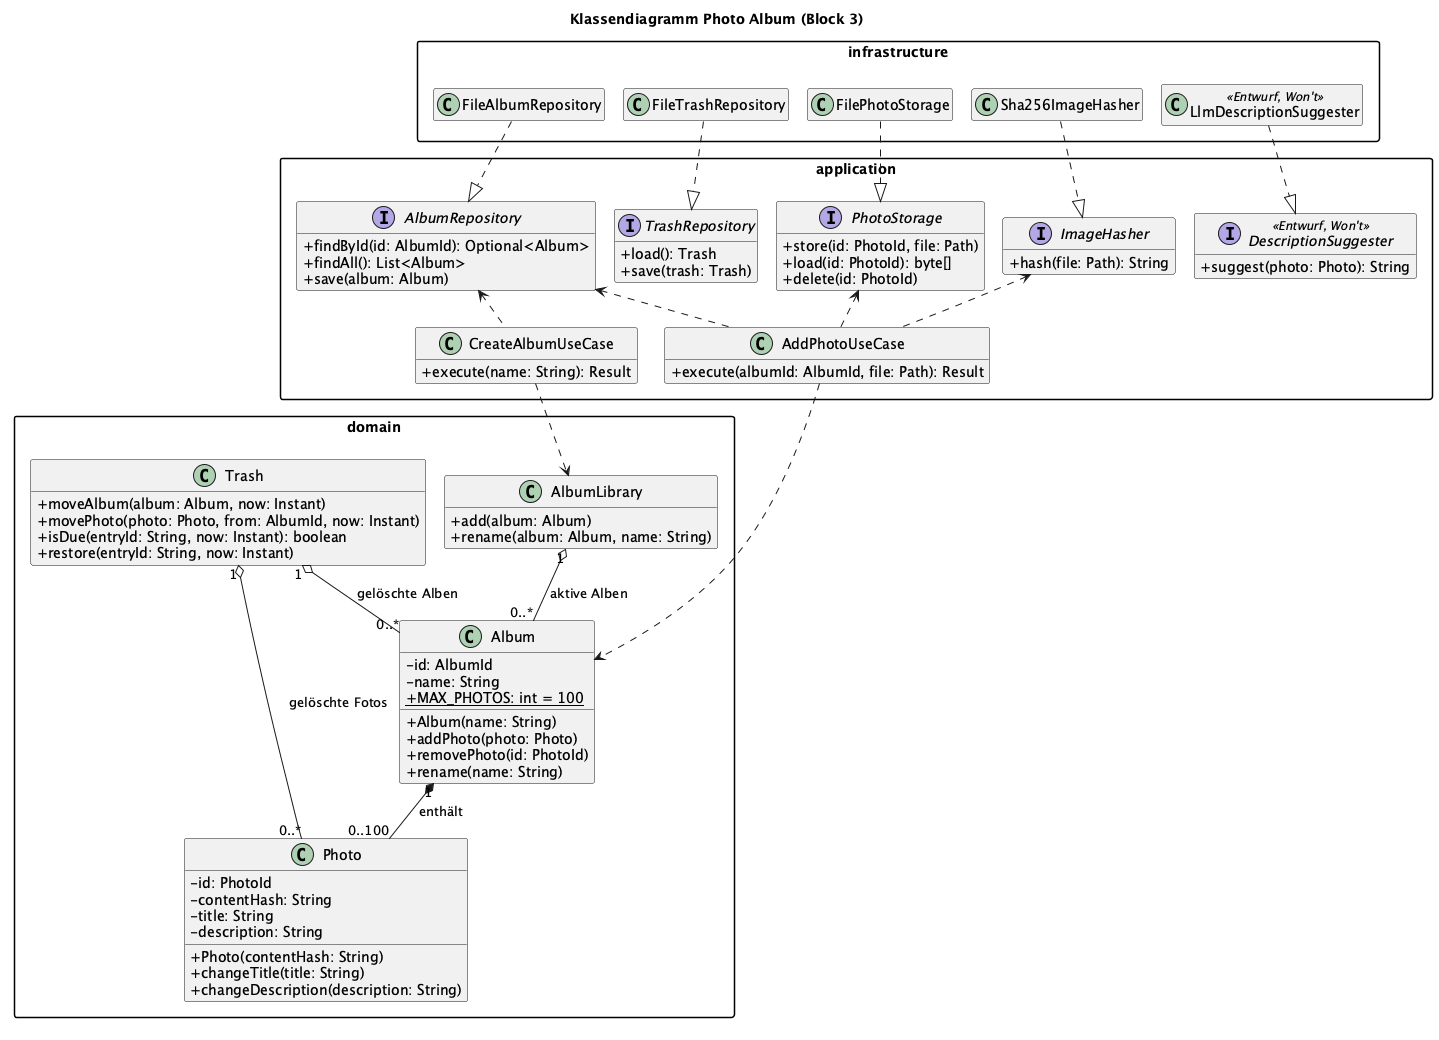
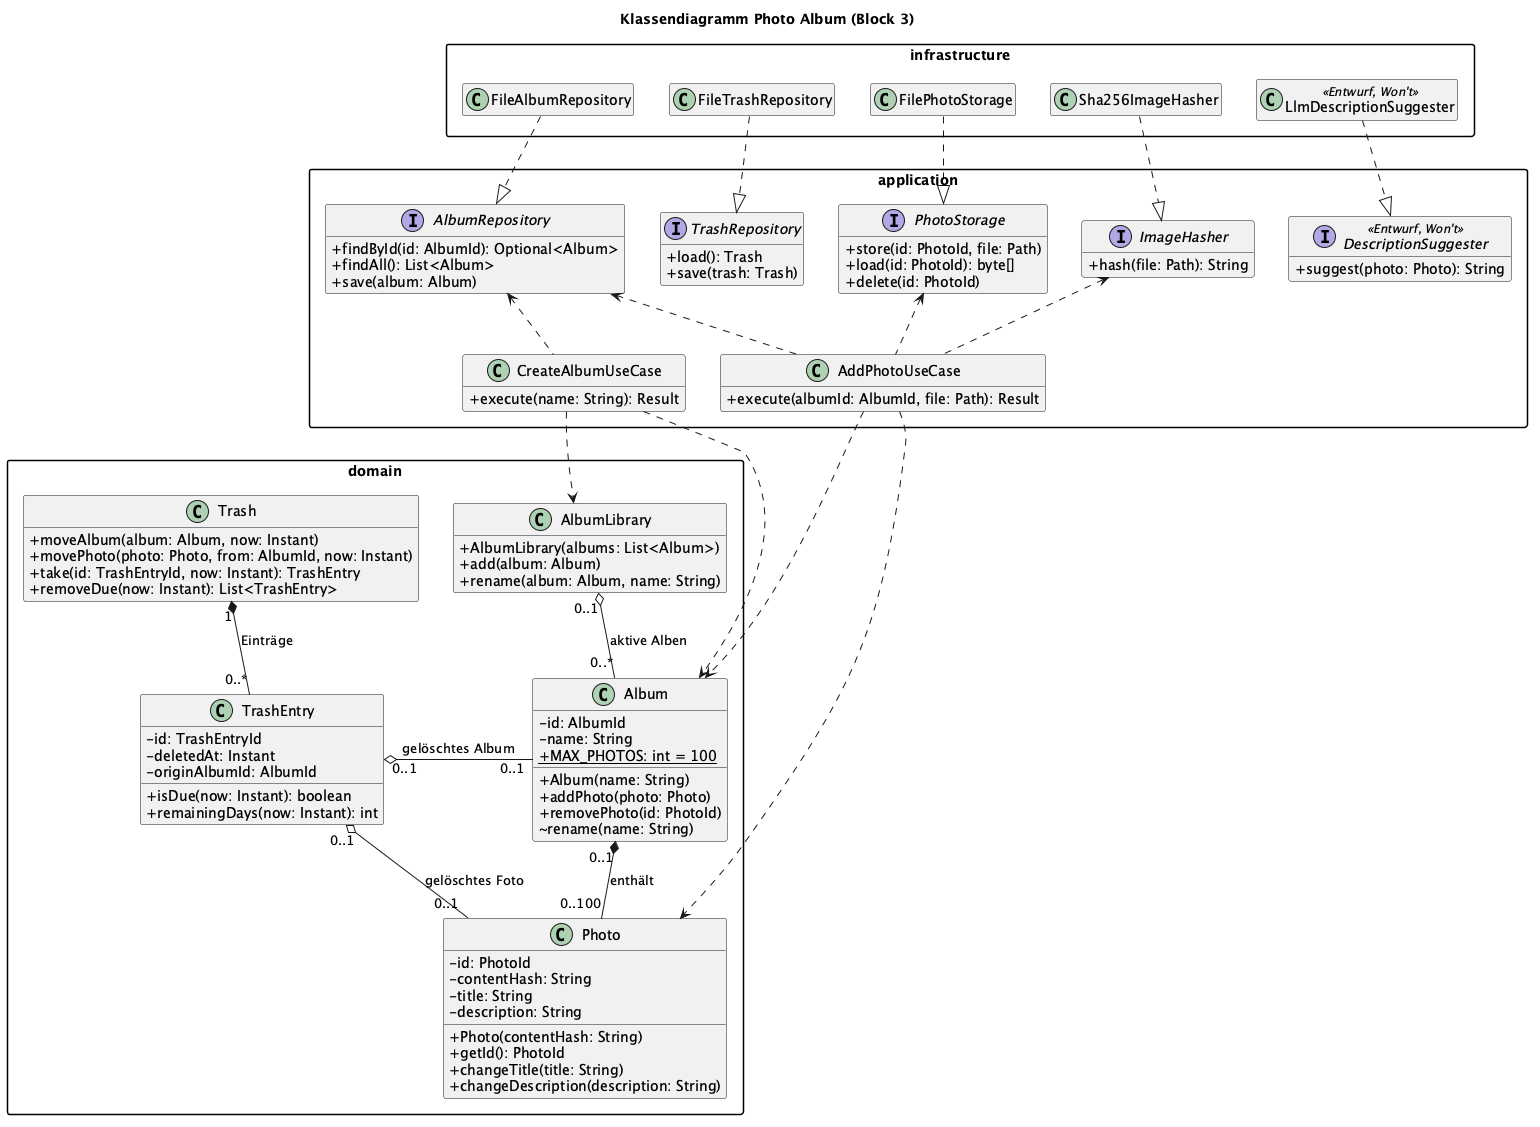
docs(block-3): KI-Review einarbeiten und Sequenzdiagramm ergänzen (#25)

Changed region(s): [[0.0, 0.0, 1.0, 1.0]]

diff --git a/docs/design/crc-karten.md b/docs/design/crc-karten.md
@@ -12,29 +12,37 @@ CRC steht für Class, Responsibilities, Collaborators. Die Karten leiten sich au
 | Seine Fotos kennen und zählen | |
 | Foto hinzufügen, wenn noch kein Foto mit demselben Hash enthalten ist (A-01) und höchstens 100 Fotos erreicht werden | |
 | Foto entfernen | |
-| Umbenennen | |
+| Umbenennen; nur über `AlbumLibrary` aufrufbar | |
 
 ### `Photo`
 
 | Verantwortlichkeiten | Partner |
 |---|---|
-| Eigene ID und Inhaltshash kennen; die App-Kopie ist unter der ID abgelegt | – |
+| Eigene ID und Inhaltshash kennen und die ID herausgeben; die App-Kopie ist unter der ID abgelegt | – |
 | Titel (höchstens 100 Zeichen) und Beschreibung (höchstens 500 Zeichen) prüfen, ändern und leeren (A-04) | |
 
 ### `AlbumLibrary`
 
 | Verantwortlichkeiten | Partner |
 |---|---|
-| Die aktiven Alben kennen | `Album` |
-| Sicherstellen, dass Albumnamen unabhängig von Groß- und Kleinschreibung eindeutig sind (A-02) | |
+| Die aktiven Alben kennen; wird aus den geladenen Alben aufgebaut | `Album` |
+| Beim Anlegen, Umbenennen und Wiederherstellen sicherstellen, dass Albumnamen unabhängig von Groß- und Kleinschreibung eindeutig sind (A-02) | |
 
 ### `Trash`
 
 | Verantwortlichkeiten | Partner |
 |---|---|
-| Gelöschte Alben und Fotos mit Löschzeitpunkt kennen (A-07) | `Album`, `Photo` |
-| Einen Eintrag ab 30 × 24 Stunden nach dem Löschzeitpunkt als fällig erkennen (A-10) | |
-| Nicht fällige Einträge wiederherstellen; fällige ablehnen (A-09, A-10) | |
+| Gelöschte Alben und Fotos als Einträge aufnehmen (A-07) | `TrashEntry` |
+| Einen nicht fälligen Eintrag zum Wiederherstellen herausgeben; fällige ablehnen (A-09, A-10) | |
+| Fällige Einträge entfernen (A-10) | |
+
+### `TrashEntry`
+
+| Verantwortlichkeiten | Partner |
+|---|---|
+| Löschzeitpunkt und Ursprungsalbum kennen (A-07) | `Album`, `Photo` |
+| Das gelöschte Album oder Foto halten | |
+| Ab 30 × 24 Stunden nach dem Löschzeitpunkt fällig sein und die verbleibenden Tage nennen (A-08, A-10) | |
 
 ## Anwendung
 
@@ -42,10 +50,11 @@ CRC steht für Class, Responsibilities, Collaborators. Die Karten leiten sich au
 
 | Verantwortlichkeiten | Partner |
 |---|---|
-| Album über `AlbumRepository` laden | `AlbumRepository` |
-| Datei von `ImageHasher` prüfen und hashen lassen | `ImageHasher` |
-| `Album` das Foto hinzufügen lassen und das Album speichern | `PhotoStorage` |
-| Nach der Aufnahme die App-Kopie anlegen und bei einem Fehler wieder entfernen (A-11) | `Album` |
+| Album laden und speichern | `AlbumRepository` |
+| Datei prüfen und hashen lassen | `ImageHasher` |
+| Neues `Photo` mit dem Hash erzeugen | `Photo` |
+| `Album` das Foto hinzufügen lassen | `Album` |
+| Nach der Aufnahme die App-Kopie anlegen und bei einem Fehler wieder entfernen (A-11) | `PhotoStorage` |
 | Fehler in eine verständliche Meldung für die UI übersetzen | |
 
 ### `CreateAlbumUseCase`
@@ -97,7 +106,8 @@ Jede Regel steht auf genau einer Karte.
 | Höchstens 100 Fotos je Album | `Album` |
 | Kein bytegleiches Foto zweimal im selben Album | `Album` |
 | Titel höchstens 100, Beschreibung höchstens 500 Zeichen | `Photo` |
-| Frist von 30 × 24 Stunden und Wiederherstellen nur vor Ablauf | `Trash` |
+| Frist von 30 × 24 Stunden | `TrashEntry` |
+| Wiederherstellen nur vor Ablauf der Frist | `Trash` |
 | Nur JPEG oder PNG bis 20 MiB (technische Eingangsprüfung) | `ImageHasher` |
 
 ## Durchspielen von „Foto hinzufügen“
@@ -111,6 +121,6 @@ Jede Regel steht auf genau einer Karte.
 
 Die Reihenfolge folgt UC-01: Erst laufen alle Prüfungen, dann wird gespeichert.
 
-Alle Karten außer `CreateAlbumUseCase`, `AlbumLibrary`, `Trash` und `TrashRepository` kommen dabei zu Wort. Diese vier gehören zu UC-02 und zum Papierkorb.
+Alle Karten außer `CreateAlbumUseCase`, `AlbumLibrary`, `Trash`, `TrashEntry` und `TrashRepository` kommen dabei zu Wort. Diese fünf gehören zu UC-02 und zum Papierkorb.
 
-`AddPhotoUseCase` hat vier Partner, einen mehr als die Faustregel der Folien. Die Karte koordiniert nur und trifft keine fachliche Entscheidung. Deshalb bleibt sie ungeteilt.
+`AddPhotoUseCase` hat fünf Partner, zwei mehr als die Faustregel der Folien. Die Karte koordiniert nur und trifft keine fachliche Entscheidung. Deshalb bleibt sie ungeteilt.

diff --git a/ARCHITECTURE.md b/ARCHITECTURE.md
@@ -17,7 +17,7 @@ flowchart TB
         ports["Ports (Interfaces)<br/>AlbumRepository<br/>TrashRepository<br/>PhotoStorage<br/>ImageHasher"]
     end
     subgraph DOM["Domäne"]
-        dom["Album, Photo, AlbumLibrary, Trash<br/>alle Geschäftsregeln"]
+        dom["Album, Photo, AlbumLibrary,<br/>Trash, TrashEntry<br/>Geschäftsregeln"]
     end
     UI --> APP
     INFRA -- implementiert Ports --> APP
@@ -31,7 +31,7 @@ Ein Pfeil bedeutet „hängt ab von“. Die Infrastruktur implementiert die Port
 |---|---|---|
 | UI | Zeigt Alben und Fotos an, nimmt Eingaben entgegen und zeigt Meldungen. Enthält keine Geschäftsregeln und greift nicht auf Dateien zu. | Swing-Fenster |
 | Anwendung | Ein Use Case je Nutzerziel. Lädt das Album über einen Port, lässt die Domäne entscheiden und speichert das Ergebnis. Legt die Ports als Interfaces fest. | `AddPhotoUseCase`, `CreateAlbumUseCase`; Ports `AlbumRepository`, `TrashRepository`, `PhotoStorage`, `ImageHasher` |
-| Domäne | Enthält alle Geschäftsregeln aus [REQUIREMENTS.md](REQUIREMENTS.md): Albumname, höchstens 100 Fotos, kein Duplikat, Textlängen. | `Album`, `Photo`, `AlbumLibrary`, `Trash` |
+| Domäne | Enthält die Geschäftsregeln aus [REQUIREMENTS.md](REQUIREMENTS.md): Albumname, höchstens 100 Fotos, kein Duplikat, Textlängen und Papierkorbfristen. Nur die technische Dateiprüfung nach A-03 liegt im Adapter (Abschnitt 2). | `Album`, `Photo`, `AlbumLibrary`, `Trash`, `TrashEntry` |
 | Infrastruktur | Setzt die Ports technisch um: JSON-Dateien, App-Kopien der Bilder, Bildprüfung und Inhaltshash. | `FileAlbumRepository`, `FileTrashRepository`, `FilePhotoStorage`, `Sha256ImageHasher` |
 
 Die Klassen leiten sich aus den [CRC-Karten](docs/design/crc-karten.md) ab und stehen im [Klassendiagramm](#3-klassendiagramm). Die Ports beschreibt [Abschnitt 2](#2-komponenten-und-ports).
@@ -65,8 +65,16 @@ Methoden und Parameter legt das Klassendiagramm fest. Ports für die Uhrzeit des
 
 Quelle: [klassendiagramm.puml](docs/design/klassendiagramm.puml)
 
-- Ein `Album` enthält 0 bis 100 Fotos. Jedes `Photo` gehört genau einem Album (A-05).
-- `AlbumLibrary` kennt alle aktiven Alben und sorgt für eindeutige Namen. `Trash` hält gelöschte Alben und Fotos, bis sie wiederhergestellt oder endgültig gelöscht werden.
-- `ImageHasher.hash` prüft die Datei nach A-03, bevor es den Hash berechnet.
-- `Trash` erhält die aktuelle Zeit als Parameter `now`. So prüfen Unit-Tests den Fristablauf ohne Wartezeit (NFA-05).
-- `DescriptionSuggester` und `LlmDescriptionSuggester` sind nur ein Entwurf. Die KI-Funktion wird nicht umgesetzt.
+- Ein `Album` enthält 0 bis 100 Fotos. Jedes aktive `Photo` gehört genau einem Album (A-05), im Papierkorb hält es ein `TrashEntry`.
+- `AlbumLibrary` sorgt für eindeutige Namen. `Album.rename` ist paketsichtbar, damit niemand diese Prüfung umgeht.
+- `TrashEntry` kennt Löschzeitpunkt und Ursprungsalbum und berechnet Fälligkeit und Resttage. Beim Wiederherstellen prüft `Trash` nur die Frist, die übrigen Regeln prüfen wie sonst `AlbumLibrary` und `Album`. Die aktuelle Zeit kommt als Parameter `now`, so prüfen Unit-Tests den Fristablauf ohne Wartezeit (NFA-05).
+- `ImageHasher.hash` und die Domäne lehnen Verstöße mit einer Exception samt Grund ab. Der Use Case übersetzt sie in ein `Result` mit Erfolg oder Meldung für die UI.
+- Einfache Getter sind nur eingezeichnet, wenn das Sequenzdiagramm sie aufruft. `DescriptionSuggester` und sein Adapter sind nur ein Entwurf, die KI-Funktion wird nicht umgesetzt.
+
+## 4. Sequenzdiagramm „Foto hinzufügen“
+
+![Sequenzdiagramm Foto hinzufügen](docs/design/sequenz-foto-hinzufuegen.png)
+
+Quelle: [sequenz-foto-hinzufuegen.puml](docs/design/sequenz-foto-hinzufuegen.puml)
+
+Der Ablauf folgt UC-01: Erst laufen alle Prüfungen, dann werden App-Kopie und Album gespeichert. In jedem Fehlerzweig wurde noch nichts verändert (NFA-01). Die Meldungen stimmen mit dem Klickprototyp überein. Fehler beim Speichern und das Zurücknehmen der App-Kopie (A-11) zeigt das Diagramm nicht.

diff --git a/AI_USAGE.md b/AI_USAGE.md
@@ -26,15 +26,13 @@ Beginne mit A-01 (Duplikate).
 
 ## Fall 2 – Architekturreview, Block 3
 
-Geplant (empfohlen).
-
 | Feld | Inhalt |
 | --- | --- |
 | **Aufgabe/Ziel** | Das Klassendiagramm aus Block 3 auf klare Verantwortlichkeiten und Abhängigkeiten prüfen lassen. Einen Vorschlag übernehmen und einen verwerfen, jeweils begründet. |
-| **Werkzeug/Modell und Prompt oder Skill** | [Verwendeter Prompt](#prompt-zu-fall-2) |
-| **Ergebnis** | |
-| **Kritische Bewertung** | |
-| **Entscheidung** | |
+| **Werkzeug/Modell und Prompt oder Skill** | Claude Code mit Claude Opus 5 in einer neuen Sitzung ohne Vorwissen zum Entwurf. Grundlage waren [Klassendiagramm](docs/design/klassendiagramm.puml), [CRC-Karten](docs/design/crc-karten.md), ARCHITECTURE.md und REQUIREMENTS.md. [Verwendeter Prompt](#prompt-zu-fall-2) |
+| **Ergebnis** | Fünf Befunde: (1) In den Use Cases fehlen Abhängigkeiten zu `Photo` und `Album`, `Photo` hat keinen Getter für seine ID und `AlbumLibrary` keinen Konstruktor. `Result` ist nicht erklärt. (2) Über das öffentliche `Album.rename` lässt sich die Namensprüfung in `AlbumLibrary` umgehen. (3) Für Löschzeitpunkt und Ursprungsalbum gibt es im Papierkorb keinen Platz. (4) Die Regeln für das Wiederherstellen sind nicht erreichbar. (5) Die Dateiregel A-03 liegt im Adapter, und der Name `ImageHasher` passt nicht zur Prüfaufgabe. |
+| **Kritische Bewertung** | Die Verweise auf AK-03.3, AK-04.6 und AK-09.5 stimmen. Befund 1 deckt einen echten Widerspruch auf: Das Sequenzdiagramm übergibt die ID des Fotos an `PhotoStorage`, das Klassendiagramm bot dafür aber keine Methode. Die Befunde 2 bis 4 sind durch A-02, A-07 und A-09 belegt. Befund 5 ist eine Auslegungsfrage. Die KI gibt selbst an, die Vorgabe strenger auszulegen, und nennt unsere Begründung schlüssig. |
+| **Entscheidung** | **Übernommen:** Befund 1 mit den fehlenden Pfeilen, `getId()`, dem Konstruktor von `AlbumLibrary` und einem Satz zu `Result`. Befund 2 mit paketsichtbarem `Album.rename`. Befund 3 mit der neuen Klasse `TrashEntry` und der Multiplizität `0..1` auf der Albumseite. Befund 4 in der vorgeschlagenen Variante: `Trash` prüft nur die Frist und gibt den Eintrag heraus, die Zielregeln prüfen `AlbumLibrary` und `Album`. **Verworfen:** Befund 5. Die Folien aus Block 3 weisen `ImageHasher` im CRC-Beispiel ausdrücklich die Prüfung von Dateityp und Größe zu. Die Prüfung braucht eine Bildbibliothek und gehört deshalb in die Infrastruktur. NFA-05 zählt die Dateiregel nicht zu den Regelgruppen, die ohne Dateizugriff testbar sein müssen. |
 
 ### Prompt zu Fall 2
 

diff --git a/ROADMAP.md b/ROADMAP.md
@@ -171,7 +171,7 @@ Die Listen ab Block 2 sind Arbeitslisten. Ein vorhandener Entwurf erfüllt einen
 
 > **Dateien:** [ARCHITECTURE.md](ARCHITECTURE.md) · [docs/design/](docs/design/)
 
-- [ ] **Sequenzdiagramm „Foto hinzufügen“ inklusive Fehlerpfad erstellen:** Den Ablauf mit dem Duplikat-Fehlerpfad als `alt`-Fragment darstellen und die Konsistenz mit dem Klassendiagramm prüfen. Als PlantUML oder Bild unter [docs/design/](docs/design/) ablegen und aus [ARCHITECTURE.md](ARCHITECTURE.md) verlinken. ([PB §8](docs/task_description/Projektbeschreibung_Photo_Album.md#8-architektur-und-entwurf-block-3); [PB §15](docs/task_description/Projektbeschreibung_Photo_Album.md#15-abgabe); [Block 3, S. 49](docs/lecture_slides/Block_3_Entwurf_und_Entwurfsmuster.pdf#page=49))
+- [x] **Sequenzdiagramm „Foto hinzufügen“ inklusive Fehlerpfad erstellen:** Den Ablauf mit dem Duplikat-Fehlerpfad als `alt`-Fragment darstellen und die Konsistenz mit dem Klassendiagramm prüfen. Als PlantUML oder Bild unter [docs/design/](docs/design/) ablegen und aus [ARCHITECTURE.md](ARCHITECTURE.md) verlinken. ([PB §8](docs/task_description/Projektbeschreibung_Photo_Album.md#8-architektur-und-entwurf-block-3); [PB §15](docs/task_description/Projektbeschreibung_Photo_Album.md#15-abgabe); [Block 3, S. 49](docs/lecture_slides/Block_3_Entwurf_und_Entwurfsmuster.pdf#page=49))
 
 #### 2. Architekturentscheidungen
 
